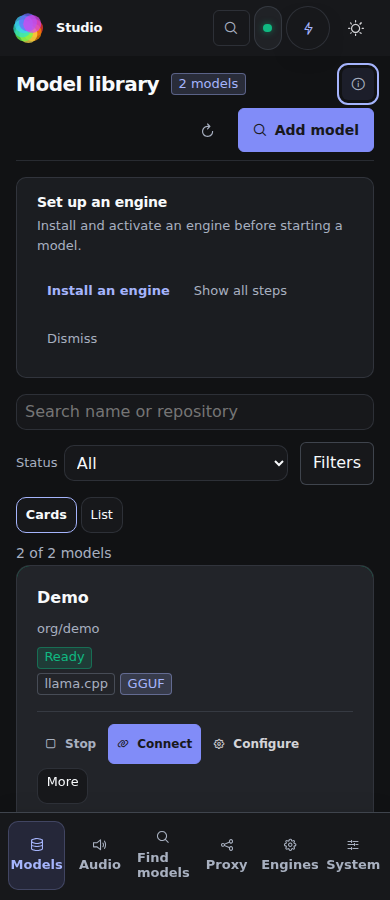
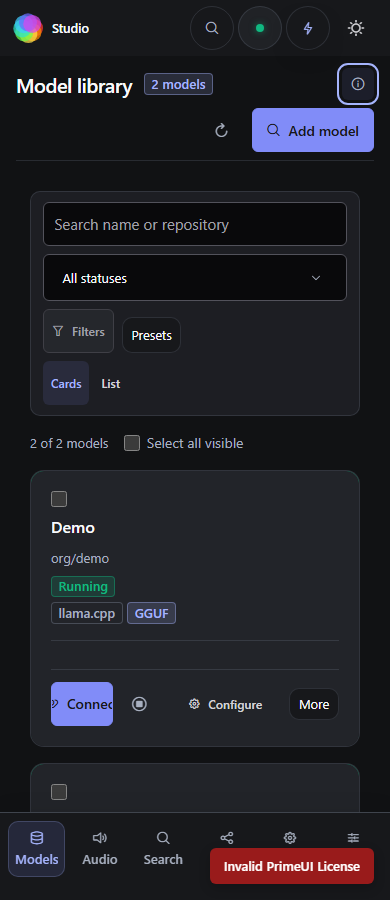
fix(ui): keep the library toolbar on one row and refresh intentional review captures

diff --git a/frontend/src/components/models/LibraryToolbar.vue b/frontend/src/components/models/LibraryToolbar.vue
@@ -145,7 +145,8 @@ const sortOptions = [
 
 <style scoped>
 .library-toolbar__select {
-  min-width: 9rem;
+  flex: 0 0 11rem;
+  min-width: 0;
 }
 
 .library-toolbar__secondary {
@@ -167,6 +168,7 @@ const sortOptions = [
 
 @media (max-width: 640px), (pointer: coarse) {
   .library-toolbar__select {
+    flex: 1 1 auto;
     width: 100%;
   }
 
